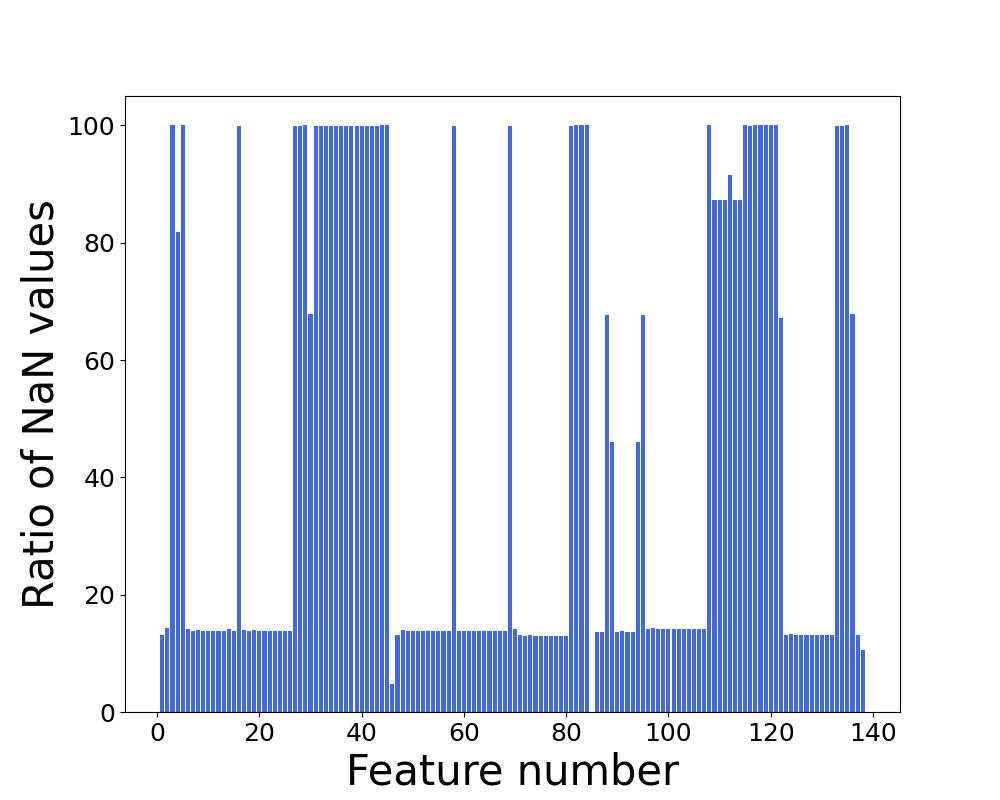
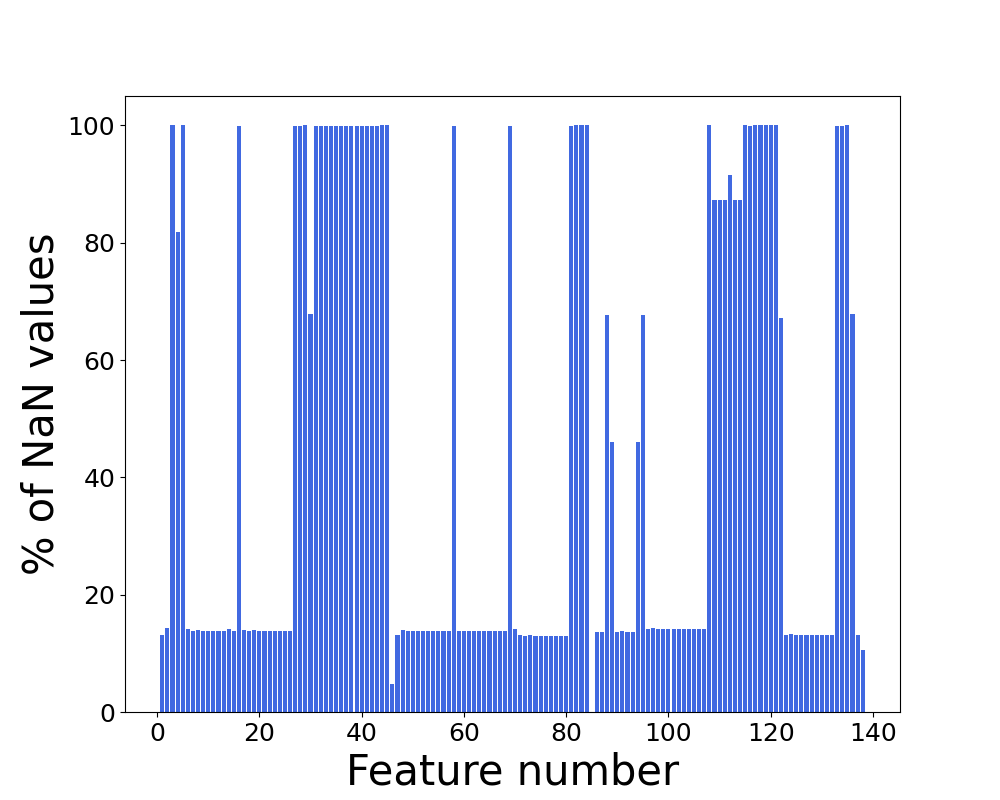
changed plots

Changed region(s): [[0.0, 0.25, 0.062, 0.7812]]

diff --git a/plots.py b/plots.py
@@ -135,7 +135,7 @@ plt.show()
 
 # < ---------------------------------Visualize missing values---------------------------- >
 # Import df before NaN removal
-df_nan = pd.read_csv('data/nan_data.csv', sep=";", header=0, index_col=0)
+df_nan = pd.read_csv('Datasets/nan_data.csv', sep=";", header=0, index_col=0)
 
 # Calculate the percentage of NaN values in each column
 df_nan = (df_nan.isna().mean() * 100)
@@ -148,7 +148,7 @@ features = np.arange(1, len(nans)+1)
 plt.figure(figsize=(10, 8)) 
 plt.bar(features, nans, color='royalblue')
 plt.xlabel("Feature number", fontsize=30)
-plt.ylabel("Ratio of NaN values", fontsize=30)
+plt.ylabel("% of NaN values", fontsize=30)
 plt.savefig(path + "nan.png")
 plt.rc('font', size=18)
 plt.show()
@@ -165,7 +165,7 @@ ratios = [ptsd_count/total, cud_count/total]
 types = ['PTSD', 'CUD']
 plt.figure(figsize=(8, 6))
 plt.bar(types, ratios, color='crimson', width=0.5)
-plt.ylabel("Count", fontsize=30)  
+plt.ylabel("Ratio", fontsize=30)  
 plt.ylim(0, 1) 
 plt.xticks(fontsize=30)  
 plt.savefig(path + "bias.png")
